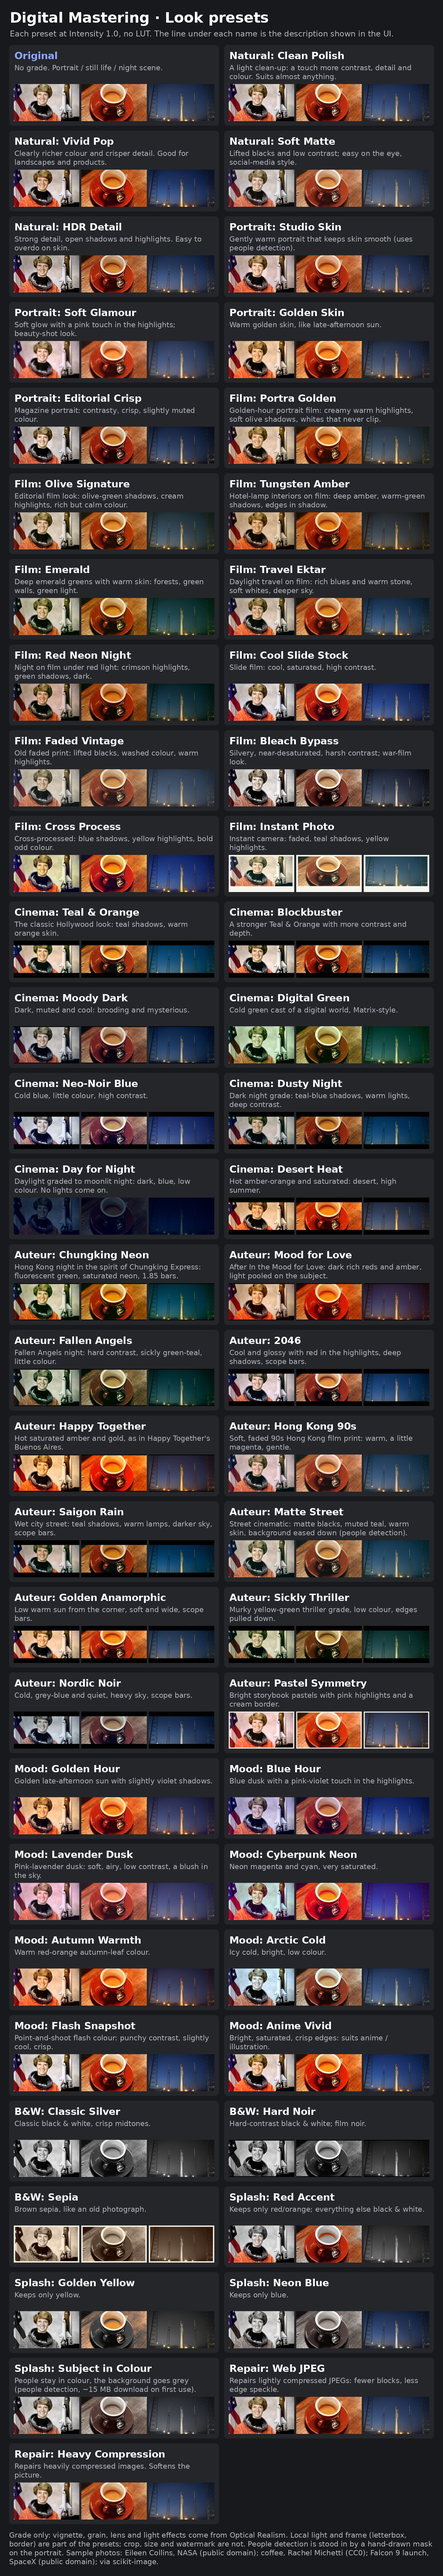
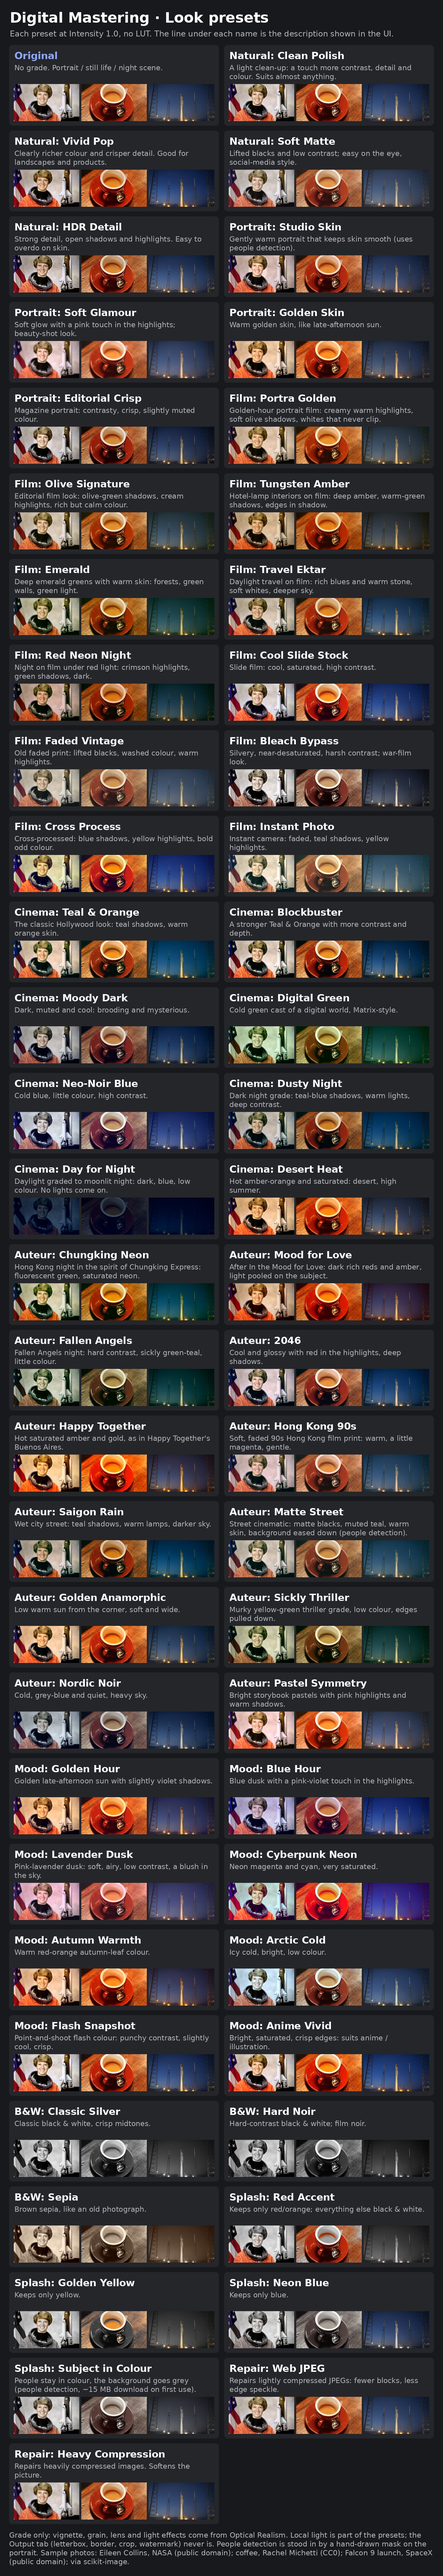
Presets no longer touch the Output tab
Letterbox and border come out of every preset (19 had one), and the whole
Output tab, Frame as well as Export, is now left alone when a preset is
picked, like the LUT and overlays. Set it once and it stays while you try
looks. Colour and Local light in those presets are unchanged. Descriptions,
guide, README and preset reference updated.

Claude-Session: https://claude.ai/code/session_01VRYVbQCnCMuoqNc9wUeJiU

diff --git a/lib_dm/presets.py b/lib_dm/presets.py
@@ -86,32 +86,28 @@ _P = {
         highlight_hue=0.16, highlight_tint=0.40),
     "Film: Instant Photo": dict(
         offset=0.08, contrast=-0.10, saturation=0.70, tint=0.10, highlight_hue=0.13,
-        highlight_tint=0.30, shadow_hue=0.50, shadow_tint=0.25,
-        out_border="Polaroid", out_border_size=0.05),
+        highlight_tint=0.30, shadow_hue=0.50, shadow_tint=0.25),
 
     # ---- cinema ----------------------------------------------------------------
     "Cinema: Teal & Orange": dict(
         contrast=0.20, saturation=1.05, vibrance=0.10, shadow_hue=0.50, shadow_tint=0.45,
-        highlight_hue=0.08, highlight_tint=0.40,
-        out_letterbox="2.39:1"),
+        highlight_hue=0.08, highlight_tint=0.40),
     "Cinema: Blockbuster": dict(
         slope=1.08, offset=-0.03, contrast=0.40, clarity=0.30, shadow_hue=0.50,
         shadow_tint=0.25, highlight_hue=0.08, highlight_tint=0.20,
-        grad_stops=-0.25, out_letterbox="2.39:1"),
+        grad_stops=-0.25),
     "Cinema: Moody Dark": dict(
         exposure=-0.30, offset=-0.02, contrast=0.25, saturation=0.75, shadow_hue=0.58,
         shadow_tint=0.30,
-        rad_outside=-0.35, rad_size=0.70, out_letterbox="1.85:1"),
+        rad_outside=-0.35, rad_size=0.70),
     "Cinema: Digital Green": dict(
         tint=-0.50, contrast=0.30, saturation=0.70, shadow_hue=0.38, shadow_tint=0.40,
         highlight_hue=0.30, highlight_tint=0.20),
     "Cinema: Neo-Noir Blue": dict(
-        temperature=-0.45, contrast=0.35, saturation=0.60, shadow_hue=0.64, shadow_tint=0.40,
-        out_letterbox="2.39:1"),
+        temperature=-0.45, contrast=0.35, saturation=0.60, shadow_hue=0.64, shadow_tint=0.40),
     "Cinema: Dusty Night": dict(
         exposure=-0.35, offset=-0.01, contrast=0.25, saturation=1.05, temperature=-0.10, tint=-0.05,
-        shadow_hue=0.52, shadow_tint=0.40, highlight_hue=0.07, highlight_tint=0.20,
-        out_letterbox="2.39:1"),
+        shadow_hue=0.52, shadow_tint=0.40, highlight_hue=0.07, highlight_tint=0.20),
     "Cinema: Day for Night": dict(
         exposure=-2.00, slope=0.85, power=1.20, offset=-0.02, temperature=-0.40, tint=-0.08,
         contrast=0.30, saturation=0.70, shadow_hue=0.60, shadow_tint=0.45, highlight_hue=0.55,
@@ -120,36 +116,36 @@ _P = {
     "Cinema: Desert Heat": dict(
         temperature=0.45, contrast=0.20, saturation=1.10, highlight_hue=0.10,
         highlight_tint=0.30, clarity=0.20,
-        grad_stops=-0.20, grad_hue=0.09, grad_tint=0.40, out_letterbox="2.39:1"),
+        grad_stops=-0.20, grad_hue=0.09, grad_tint=0.40),
 
     # ---- auteur: homages to how certain films look ----------------------------
     "Auteur: Chungking Neon": dict(
         exposure=-0.15, tint=-0.25, contrast=0.35, saturation=1.25, shadow_hue=0.42, shadow_tint=0.45,
         highlight_hue=0.10, highlight_tint=0.25, clarity=-0.10,
-        rad_outside=-0.30, rad_size=0.75, out_letterbox="1.85:1"),
+        rad_outside=-0.30, rad_size=0.75),
     "Auteur: Mood for Love": dict(
         exposure=-0.25, temperature=0.20, contrast=0.30, saturation=1.15, shadow_hue=0.02, shadow_tint=0.30,
         highlight_hue=0.10, highlight_tint=0.35, clarity=-0.15,
-        rad_inside=0.10, rad_outside=-0.40, rad_size=0.60, rad_softness=0.7, out_letterbox="1.85:1"),
+        rad_inside=0.10, rad_outside=-0.40, rad_size=0.60, rad_softness=0.7),
     "Auteur: Fallen Angels": dict(
         exposure=-0.30, tint=-0.30, contrast=0.55, saturation=0.55, shadow_hue=0.45, shadow_tint=0.40,
         highlight_hue=0.15, highlight_tint=0.15, clarity=0.30,
-        rad_outside=-0.40, rad_size=0.65, out_letterbox="1.85:1"),
+        rad_outside=-0.40, rad_size=0.65),
     "Auteur: 2046": dict(
         exposure=-0.20, temperature=-0.15, slope=1.05, contrast=0.35, saturation=0.90, shadow_hue=0.55,
         shadow_tint=0.35, highlight_hue=0.98, highlight_tint=0.20,
-        rad_outside=-0.30, rad_size=0.70, out_letterbox="2.39:1"),
+        rad_outside=-0.30, rad_size=0.70),
     "Auteur: Happy Together": dict(
         temperature=0.35, tint=0.08, contrast=0.30, saturation=1.25, highlight_hue=0.13, highlight_tint=0.40,
         shadow_hue=0.05, shadow_tint=0.20,
-        grad_hue=0.11, grad_tint=0.35, out_letterbox="1.85:1"),
+        grad_hue=0.11, grad_tint=0.35),
     "Auteur: Hong Kong 90s": dict(
         offset=0.04, slope=0.92, temperature=0.12, tint=0.10, contrast=0.10, saturation=0.90,
         shadow_hue=0.50, shadow_tint=0.20, highlight_hue=0.95, highlight_tint=0.15, clarity=-0.20),
     "Auteur: Saigon Rain": dict(
         exposure=-0.25, offset=-0.01, contrast=0.30, saturation=1.10, temperature=-0.05,
         shadow_hue=0.50, shadow_tint=0.45, highlight_hue=0.07, highlight_tint=0.30, clarity=0.15,
-        grad_stops=-0.30, out_letterbox="2.39:1"),
+        grad_stops=-0.30),
     "Auteur: Matte Street": dict(
         offset=0.05, slope=0.94, contrast=0.15, saturation=0.80, shadow_hue=0.50, shadow_tint=0.30,
         highlight_hue=0.09, highlight_tint=0.20, clarity=0.20,
@@ -157,20 +153,18 @@ _P = {
     "Auteur: Golden Anamorphic": dict(
         temperature=0.30, contrast=0.20, saturation=1.05, highlight_hue=0.09, highlight_tint=0.35,
         shadow_hue=0.55, shadow_tint=0.15, clarity=-0.10,
-        grad_angle=315.0, grad_position=0.50, grad_softness=0.8, grad_hue=0.08, grad_tint=0.40,
-        out_letterbox="2.39:1"),
+        grad_angle=315.0, grad_position=0.50, grad_softness=0.8, grad_hue=0.08, grad_tint=0.40),
     "Auteur: Sickly Thriller": dict(
         exposure=-0.15, tint=-0.20, temperature=0.10, contrast=0.35, saturation=0.60, shadow_hue=0.40,
         shadow_tint=0.30, highlight_hue=0.15, highlight_tint=0.25,
-        rad_outside=-0.35, rad_size=0.70, out_letterbox="2.39:1"),
+        rad_outside=-0.35, rad_size=0.70),
     "Auteur: Nordic Noir": dict(
         exposure=-0.15, temperature=-0.30, contrast=0.25, saturation=0.50, shadow_hue=0.60, shadow_tint=0.30,
         highlight_hue=0.55, highlight_tint=0.10,
-        grad_stops=-0.40, out_letterbox="2.39:1"),
+        grad_stops=-0.40),
     "Auteur: Pastel Symmetry": dict(
         exposure=0.10, offset=0.03, temperature=0.10, contrast=0.05, saturation=1.10, highlight_hue=0.95,
-        highlight_tint=0.25, shadow_hue=0.12, shadow_tint=0.15,
-        out_border="Cream", out_border_size=0.03),
+        highlight_tint=0.25, shadow_hue=0.12, shadow_tint=0.15),
 
     # ---- mood ----------------------------------------------------------------------
     "Mood: Golden Hour": dict(
@@ -208,11 +202,10 @@ _P = {
         saturation=0.0, contrast=0.25, clarity=0.30),
     "B&W: Hard Noir": dict(
         saturation=0.0, exposure=-0.20, contrast=0.60, clarity=0.50,
-        rad_outside=-0.40, rad_size=0.65, out_letterbox="1.85:1"),
+        rad_outside=-0.40, rad_size=0.65),
     "B&W: Sepia": dict(
         saturation=0.0, offset=0.02, contrast=0.10, highlight_hue=0.09, highlight_tint=0.45,
-        shadow_hue=0.07, shadow_tint=0.35,
-        out_border="Cream", out_border_size=0.04),
+        shadow_hue=0.07, shadow_tint=0.35),
 
     # ---- colour splash ---------------------------------------------------------
     "Splash: Red Accent": dict(
@@ -262,18 +255,18 @@ DESCRIPTIONS = {
     "Cinema: Dusty Night": "Dark night grade: teal-blue shadows, warm lights, deep contrast.",
     "Cinema: Day for Night": "Daylight graded to moonlit night: dark, blue, low colour. No lights come on.",
     "Cinema: Desert Heat": "Hot amber-orange and saturated: desert, high summer.",
-    "Auteur: Chungking Neon": "Hong Kong night in the spirit of Chungking Express: fluorescent green, saturated neon, 1.85 bars.",
+    "Auteur: Chungking Neon": "Hong Kong night in the spirit of Chungking Express: fluorescent green, saturated neon.",
     "Auteur: Mood for Love": "After In the Mood for Love: dark rich reds and amber, light pooled on the subject.",
     "Auteur: Fallen Angels": "Fallen Angels night: hard contrast, sickly green-teal, little colour.",
-    "Auteur: 2046": "Cool and glossy with red in the highlights, deep shadows, scope bars.",
+    "Auteur: 2046": "Cool and glossy with red in the highlights, deep shadows.",
     "Auteur: Happy Together": "Hot saturated amber and gold, as in Happy Together's Buenos Aires.",
     "Auteur: Hong Kong 90s": "Soft, faded 90s Hong Kong film print: warm, a little magenta, gentle.",
-    "Auteur: Saigon Rain": "Wet city street: teal shadows, warm lamps, darker sky, scope bars.",
+    "Auteur: Saigon Rain": "Wet city street: teal shadows, warm lamps, darker sky.",
     "Auteur: Matte Street": "Street cinematic: matte blacks, muted teal, warm skin, background eased down (people detection).",
-    "Auteur: Golden Anamorphic": "Low warm sun from the corner, soft and wide, scope bars.",
+    "Auteur: Golden Anamorphic": "Low warm sun from the corner, soft and wide.",
     "Auteur: Sickly Thriller": "Murky yellow-green thriller grade, low colour, edges pulled down.",
-    "Auteur: Nordic Noir": "Cold, grey-blue and quiet, heavy sky, scope bars.",
-    "Auteur: Pastel Symmetry": "Bright storybook pastels with pink highlights and a cream border.",
+    "Auteur: Nordic Noir": "Cold, grey-blue and quiet, heavy sky.",
+    "Auteur: Pastel Symmetry": "Bright storybook pastels with pink highlights and warm shadows.",
     "Mood: Golden Hour": "Golden late-afternoon sun with slightly violet shadows.",
     "Mood: Blue Hour": "Blue dusk with a pink-violet touch in the highlights.",
     "Mood: Lavender Dusk": "Pink-lavender dusk: soft, airy, low contrast, a blush in the sky.",

diff --git a/lib_dm/controls.py b/lib_dm/controls.py
@@ -113,7 +113,7 @@ CONTROLS = [
             info="Exposure in stops on detected people (dodge / burn the subject). Uses people detection."),
     Control("background_light", "Background: light", 0.0, -2.0, 1.0, 0.05,
             info="Exposure in stops on everything else. Uses people detection."),
-    # --- output: frame (part of a look) and export (one picture's) ------------
+    # --- output: frame and export, set by hand, never by a preset ------------
     Control("out_letterbox", "Letterbox", "None", kind="choice", choices=tuple(LETTERBOXES),
             info="Black cinema bars over top and bottom; the picture keeps its size. 2.39:1 = scope."),
     Control("out_aspect", "Crop to", "Original", kind="choice", choices=tuple(ASPECTS),
@@ -171,10 +171,10 @@ GROUP_OF = {n: g for g, names in GROUPS.items() for n in names}
 # Not part of the look: never pasted from PNG info.
 LOCAL_ONLY = {"lut_dir", "overlay_dir", "wm_font", "false_color"}
 OVERLAY_CONTROLS = set(GROUPS["en_overlay"]) | {"en_overlay", "overlay_dir"}
-# Crop, size and watermark belong to one picture, not to a look: presets
-# leave them be. Local light and the frame (letterbox, border) are part of
-# a look, and presets may set them.
-PER_IMAGE_CONTROLS = set(GROUPS["en_export"]) | {"en_export", "wm_font"}
+# The Output tab (frame and export) belongs to one picture, not to a look:
+# presets leave it be. Local light is part of a look, and presets may set it.
+PER_IMAGE_CONTROLS = (set(GROUPS["en_frame"]) | set(GROUPS["en_export"])
+                      | {"en_frame", "en_export", "wm_font"})
 
 
 def coerce(name, value):

diff --git a/lib_dm/layout.py b/lib_dm/layout.py
@@ -140,11 +140,11 @@ The overlays are textures laid on top, the same on every image. For effects work
     {
         "title": "Output",
         "guide": """
-**Ready to post or print.** Two parts, each with its own Enable box, and both run last.
+**Ready to post or print.** Two parts, each with its own Enable box, and both run last. Presets never touch this tab: what you set here stays when you switch looks.
 
-**Frame** is part of a look, so presets may set it: **Letterbox** lays black cinema bars over the top and bottom (the picture keeps its size; 2.39:1 is the widescreen "scope" shape), **Border** frames the picture in white, black, cream or Polaroid.
+**Frame**: **Letterbox** lays black cinema bars over the top and bottom (the picture keeps its size; 2.39:1 is the widescreen "scope" shape), **Border** frames the picture in white, black, cream or Polaroid.
 
-**Export** belongs to this one picture, so presets never touch it:
+**Export**:
 
 | Step | What it does |
 |---|---|

diff --git a/README.md b/README.md
@@ -36,7 +36,7 @@ and grain are in Optical Realism (see below).
 Each section has an **Enable** box (Color, Detail & Finish, Selective Color,
 LUT, Local, Overlay, Frame, Export, Restoration); an unticked section is ignored whatever its sliders say.
 A preset ticks the sections it uses (their other controls at neutral) and
-unticks the rest, Local light and Frame (letterbox, border) included; it never touches Intensity, the LUT, the overlays or Export (crop, size, watermark), so you can set
+unticks the rest, Local light included; it never touches Intensity, the LUT, the overlays or the Output tab (frame and export), so you can set
 Intensity once and flick through presets. The colour sliders show a colour
 wheel on their track.
 
@@ -88,7 +88,7 @@ Love*, *Fallen Angels*, *2046* and *Happy Together* after Wong Kar-wai's films
 (Christopher Doyle's photography), plus *Hong Kong 90s*, *Saigon Rain*, *Matte
 Street*, *Golden Anamorphic*, *Sickly Thriller*, *Nordic Noir* and *Pastel
 Symmetry*. They are homages built from this suite's own controls, not copies of
-any grade. Most use Local light and a letterbox; pair them with an Optical
+any grade. Most use Local light; add a letterbox under Output if you want the bars. Pair them with an Optical
 Realism preset for grain, halation and glow (e.g. *Night City Glow* with
 *Chungking Neon*, *Film Camera 35mm* with *Mood for Love*).
 
